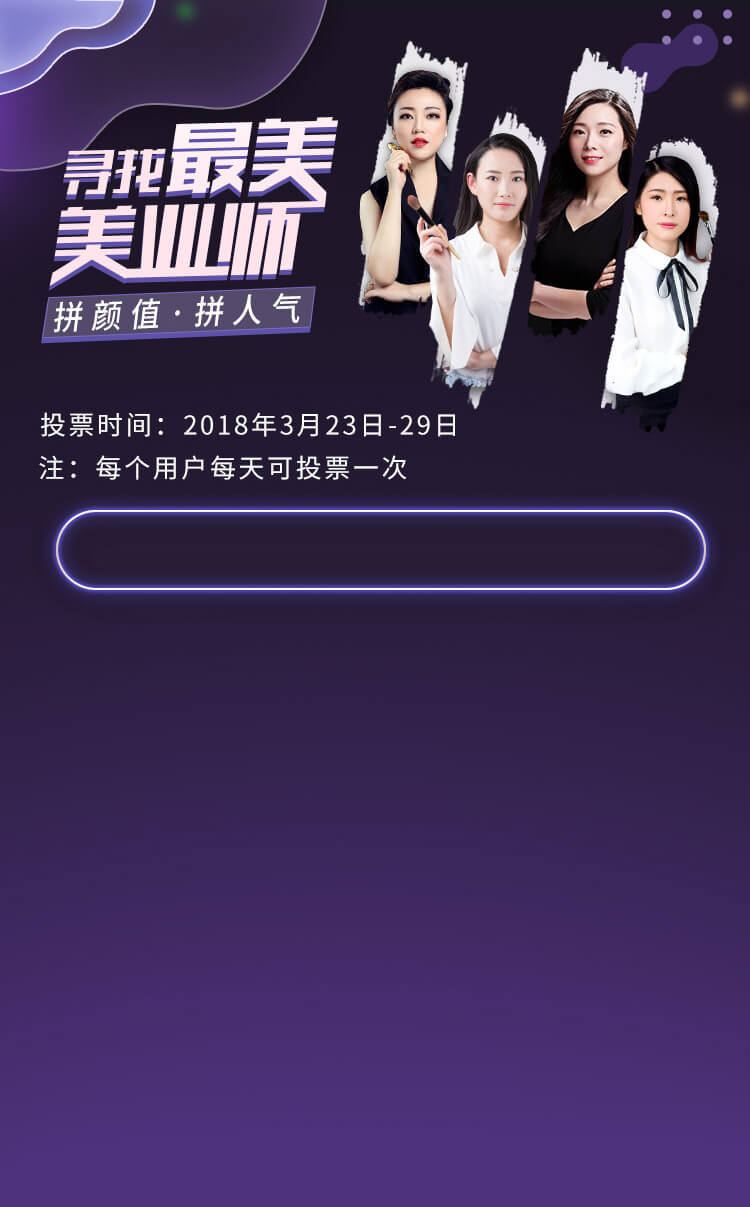
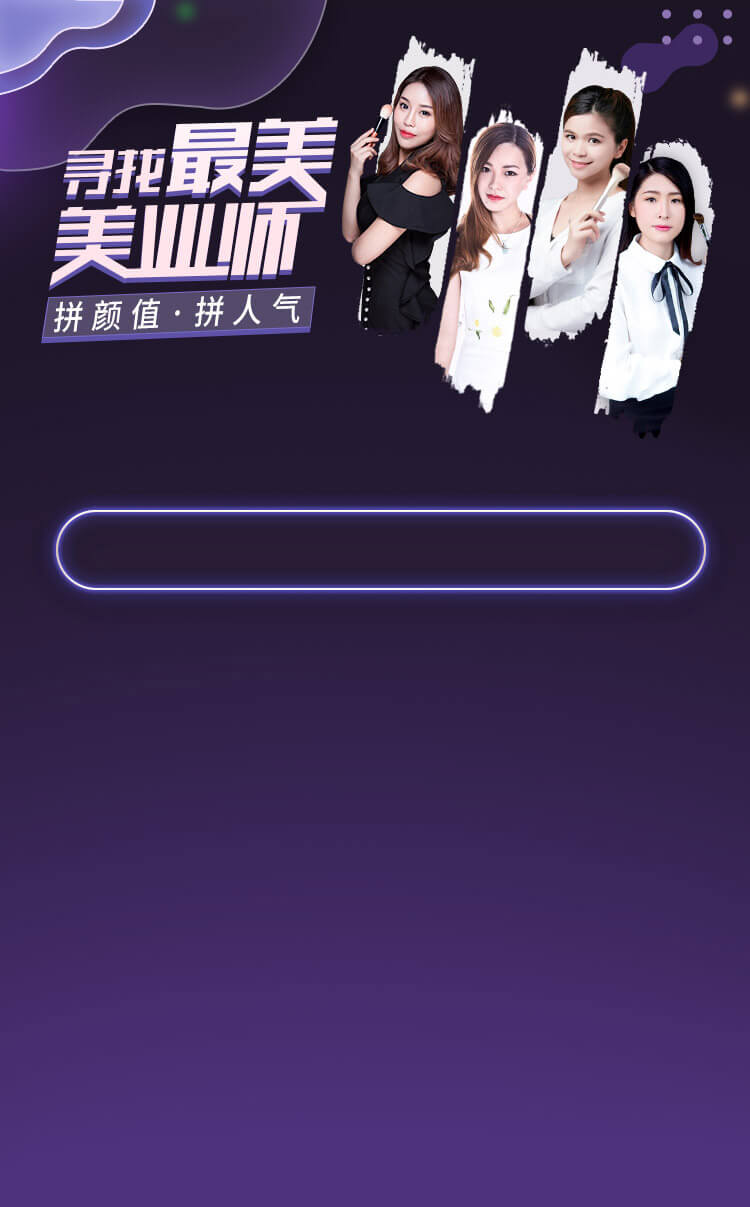
调整最美美业师专题的活动时间

Changed region(s): [[0.0613, 0.0307, 0.9813, 0.3985]]

diff --git a/src/page/topic/bestMys/signup.vue b/src/page/topic/bestMys/signup.vue
@@ -2,7 +2,7 @@
   <div class="sign-up">
     <img src="/static/topic/bestMys/1.1bg.jpg" alt="寻找最美美业师" class="bg-img">
     <div class="main">
-      <div class="period">报名时间：2018年3月16日-22日</div>
+      <div class="period">报名时间：2018年3月23日-30日</div>
       <div class="sign-box">
         <!--手机号、验证码-->
         <input class="tel" type="tel" v-model="mobile" @focus="inputText" @blur="inputBlur" placeholder="请输入手机号码" maxlength="11">
@@ -197,7 +197,8 @@ export default {
           duration: 2000,
           className: 'toast-tip'
         });*/
-        this.$router.push('/topic-best-mys/info');
+        // this.$router.push('/topic-best-mys/info');
+        window.location.href = '/topic-best-mys/info';
       } else {
         alert(result.msg);
       }

diff --git a/src/page/topic/bestMys/vote.vue b/src/page/topic/bestMys/vote.vue
@@ -1,6 +1,10 @@
 <template>
   <div class="main">
     <div class="info">
+      <div class="date-box">
+        <p>投票时间：2018年3月31日-4月6日</p>
+        <p>注：每个用户每天可投票一次</p>
+      </div>
       <div class="search-box">
         <form action="" @submit.prevent="searchFun(searchText)">
           <img class="search-icon" src="/static/topic/bestMys/icon_search.png" alt="">
@@ -329,6 +333,16 @@ export default {
     position: relative;
     z-index: 1;
     padding: 0 6.8% 10rem;
+    .date-box {
+      position: absolute;
+      left: 6.8%;
+      top: -5.5rem;
+      p {
+        font-size: 1.2rem;
+        color: #fff;
+        line-height: 2.2rem;
+      }
+    }
     .search-box {
       position: relative;
       width: 100%;

diff --git a/src/page/topic/bestMys/perfectInfo.vue b/src/page/topic/bestMys/perfectInfo.vue
@@ -42,7 +42,7 @@
       </div>
       <button class="share" @click="shareBoxShow = true">分享给小伙伴</button>
       <div class="success-tip ">
-        <span>投票时间：2018年3月23日-29日</span><br> 敬请留意
+        <span>投票时间：2018年3月31日-4月6日</span><br> 敬请留意
       </div>
     </div>
     <img v-if="!success" src="/static/topic/bestMys/2.1.0bg.jpg" alt="" class="bg">
